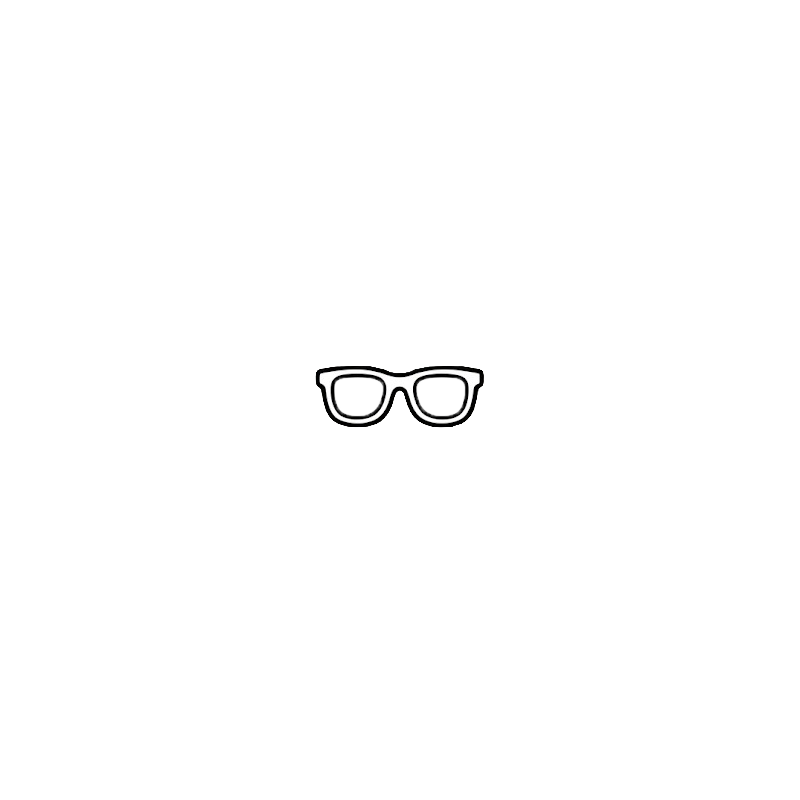
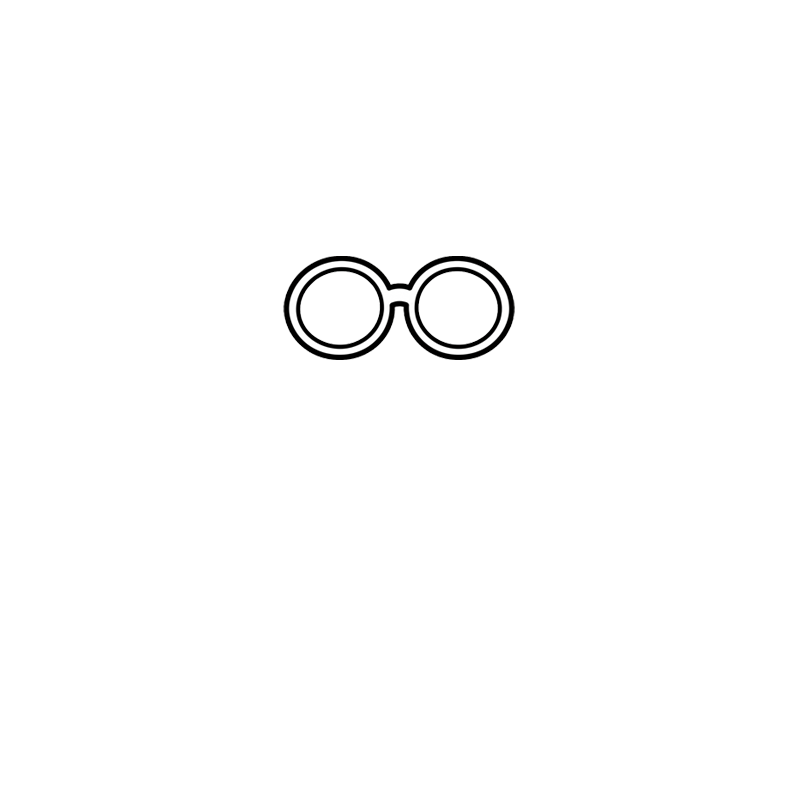
Cuerpos con ropa por etapa (bebé, niño, adulto) separados en capas para pintarlos, color de ropa según la cámara, anteojos nuevos y pelos con el lienzo entero

Changed region(s): [[0.3438, 0.3125, 0.6562, 0.5312]]

diff --git a/js/personaje.js b/js/personaje.js
@@ -33,22 +33,23 @@ var Personaje = (function () {
     brazoBebe: de800("brazo_bebe.png",  [369, 318, 70, 107]),
     ojos:   { src: "ojos1.png",      recorte: [163, 394, 2074, 963],  centro: [1020, 790],  ancho: 520 },
     cejas:  { src: "cejas1.png",     recorte: [183, 705, 2033, 321],  centro: [1020, 610],  ancho: 500 },
-    // pelos: todos vienen alineados con la cabeza (mismo lienzo de 800 que cara_base), relleno blanco y líneas negras
-    pelo3:   de800("pelo3.png",   [237, 133, 325, 200]),
-    pelo4:   de800("pelo4.png",   [227, 114, 342, 212]),
-    pelo5:   de800("pelo5.png",   [226, 102, 346, 224]),
-    pelo6:   de800("pelo6.png",   [212, 95, 370, 235]),
-    pelo7:   de800("pelo7.png",   [211, 90, 371, 246]),
-    pelo8:   de800("pelo8.png",   [196, 67, 387, 241]),
-    pelo9:   de800("pelo9.png",   [232, 105, 328, 231]),
-    pelo10:  de800("pelo10.png",  [229, 109, 339, 257]),
-    pelo11:  de800("pelo11.png",  [211, 117, 360, 255]),
+    // pelos: todos vienen alineados con la cabeza (mismo lienzo de 800 que cara_base), relleno blanco y líneas negras.
+    // Se usa el lienzo entero (no un recorte), así si se edita un pelo no hay que cambiar nada acá.
+    pelo3:   de800("pelo3.png",   [0, 0, 800, 800]),
+    pelo4:   de800("pelo4.png",   [0, 0, 800, 800]),
+    pelo5:   de800("pelo5.png",   [0, 0, 800, 800]),
+    pelo6:   de800("pelo6.png",   [0, 0, 800, 800]),
+    pelo7:   de800("pelo7.png",   [0, 0, 800, 800]),
+    pelo8:   de800("pelo8.png",   [0, 0, 800, 800]),
+    pelo9:   de800("pelo9.png",   [0, 0, 800, 800]),
+    pelo10:  de800("pelo10.png",  [0, 0, 800, 800]),
+    pelo11:  de800("pelo11.png",  [0, 0, 800, 800]),
     // pelos de mujer (pelo50 en adelante): mismo lienzo de 800, alineados con la cabeza
-    pelo50:  de800("pelo50.png",  [165, 127, 416, 273]),
-    pelo51:  de800("pelo51.png",  [204, 133, 386, 275]),
-    pelo52:  de800("pelo52.png",  [210, 135, 413, 278]),
-    pelo53:  de800("pelo53.png",  [132, 175, 533, 321]),
-    pelo54:  de800("pelo54.png",  [194, 129, 406, 269])
+    pelo50:  de800("pelo50.png",  [0, 0, 800, 800]),
+    pelo51:  de800("pelo51.png",  [0, 0, 800, 800]),
+    pelo52:  de800("pelo52.png",  [0, 0, 800, 800]),
+    pelo53:  de800("pelo53.png",  [0, 0, 800, 800]),
+    pelo54:  de800("pelo54.png",  [0, 0, 800, 800])
   };
   /* Ropa y accesorios: vienen centrados en su lienzo de 800 (no sobre el cuerpo). Cada uno dice dónde va su centro
      sobre el cuerpo (coordenadas del lienzo de 800 del cuerpo) y a qué escala. */
@@ -65,17 +66,41 @@ var Personaje = (function () {
     ["nino_buzo",     [277, 321, 246, 162], [404, 490], 1.0],
     ["adulto_camisa", [276, 323, 238, 156], [403, 488], 1.0],
     ["adulto_pantalon", [333, 311, 133, 173], [404, 562], 0.86],
-    ["adulto_traje",  [282, 326, 234, 152], [404, 490], 1.0],
-    ["anteojos",      [313, 364, 173, 66],  [400, 307], 0.98]
+    ["adulto_traje",  [282, 326, 234, 152], [404, 490], 1.0]
   ].forEach(function (a) { PIEZAS[a[0]] = prenda(a[0] + ".png", a[1], a[2], a[3]); });
+  // anteojos: vienen ubicados sobre los ojos; ESCALA_ANTEOJOS los achica o agranda sin moverlos del centro de los ojos
+  var ESCALA_ANTEOJOS = 0.85;
+  PIEZAS.anteojos = prenda("anteojos.png", [281, 254, 236, 108], [399, 308], ESCALA_ANTEOJOS);
 
   /* Etapas de la evolución: el mismo visitante (piel, pelo, ojos, boca), cambia el cuerpo, el tamaño y la ropa.
      ropa: [pieza, color] en el orden en que se dibuja (lo de abajo primero). */
+  /* Cuerpos de cada etapa: vienen con la cabeza, los brazos y la ropa en una sola imagen, con cada zona pintada de un
+     color de código. herramientas/separar_cuerpos.py los separa en capas (assets/carausuario/capas/): una por zona
+     (piel, ropa1, ropa2, detalle, acento), que acá se tiñen, y las líneas negras, que van encima.
+     cabeza = [x, y, escala]: dónde está el centro de la cabeza (lienzo de 800, a la altura más ancha) y cuánto más
+     grande es que la de cara_base; con eso se ubican los ojos, las cejas, el pelo y la boca (los 3 cuerpos no miden igual). */
+  var ZONAS = ["piel", "ropa1", "ropa2", "detalle", "acento"];
   var ETAPAS = {
-    bebe:   { cuerpo: "bebe", tamano: 0.62, ropa: [["bebe_enterito", "#9fd3f2"], ["bebe_babero", "#fff6c8"]] },
-    nino:   { cuerpo: "base", tamano: 0.82, brazos: false, ropa: [["nino_pantalon", "#5b7fc4"], ["nino_remera", "#ffd166"], ["nino_buzo", "#ef6f6c"]] },
-    adulto: { cuerpo: "base", tamano: 1, brazos: false,  ropa: [["adulto_pantalon", "#3c4252"], ["adulto_camisa", "#ffffff"], ["adulto_traje", "#4a5878"]] }
+    bebe:   { cuerpo: "cuerpo_bebe",   tamano: 0.62, cabeza: [398.5, 320, 1.064] },
+    nino:   { cuerpo: "cuerpo_nino",   tamano: 0.82, cabeza: [403, 317, 1.018] },
+    adulto: { cuerpo: "cuerpo_adulto", tamano: 1,    cabeza: [399.5, 316, 1.071] }
   };
+  var CABEZA_BASE = [398.5, 317];   // la de cara_base, sobre la que están ubicados los rasgos
+  Object.keys(ETAPAS).forEach(function (k) {
+    var c = ETAPAS[k].cuerpo;
+    ZONAS.concat("lineas").forEach(function (z) { PIEZAS[c + "_" + z] = de800("capas/" + c + "_" + z + ".png", [0, 0, 800, 800]); });
+  });
+  // colores para la ropa (cuando la cámara no ve la remera, o para las otras prendas)
+  var COLORES_ROPA = ["#ff8a80", "#ffd166", "#7bd389", "#6ec6ff", "#b39ddb", "#f48fb1", "#ffab40", "#4db6ac",
+                      "#5c6bc0", "#e57373", "#aed581", "#4fc3f7", "#ba68c8", "#90a4ae"];
+  // los colores de la ropa de un visitante: los que guardó la cámara, o unos fijos según su id (siempre los mismos)
+  function coloresRopa(rasgos) {
+    if (rasgos.ropa) return rasgos.ropa;
+    var s = Math.abs(rasgos.id || 7) % 9973;
+    function c(k) { return COLORES_ROPA[(s * (k + 3) + k * 5) % COLORES_ROPA.length]; }
+    return { ropa1: c(0), ropa2: c(1), detalle: c(2), acento: c(3) };
+  }
+
 
   // la caja del personaje dentro del cuerpo (lo que se ve), en coordenadas del cuerpo
   var CAJA = { x: 380, y: 160, w: 1300, h: 1760 };
@@ -108,7 +133,7 @@ var Personaje = (function () {
     pelo53: { largo: 0.8,  flequillo: 0.5, rulos: 0.5 }, // dos colitas
     pelo54: { largo: 1,    flequillo: 0.3, rulos: 1 }  // largo con rulos
   };
-  var ANTEOJOS = 0.35;       // desde cuánto borde sobre el puente de la nariz se toma como anteojos (calibrar con la cámara)    // la cámara ve la piel más oscura de lo que es
+  var ANTEOJOS = 0.35;       // desde cuánto borde sobre el puente de la nariz se toma como anteojos (calibrar con la cámara)
   var OJOS = [{ x: 881, y: 790 }, { x: 1159, y: 790 }], RADIO_OJO = 124;
   var BOCA = { centro: [1020, 975], ancho: 150 };
   /* Brazos del bebé: giran desde el hombro (coordenadas del cuerpo). pivote = el hombro dentro del recorte del png;
@@ -255,12 +280,29 @@ var Personaje = (function () {
     // orden: cabeza → brazos → cuerpo → cara (ojos, cejas, pelo, boca).
     // op.parte = "fondo" dibuja sólo la cabeza; "frente", todo lo que va arriba de los brazos (para moverlos aparte en el medio)
     var etapa = ETAPAS[rasgos.etapa];
-    var bebe = (etapa ? etapa.cuerpo : rasgos.cuerpo) === "bebe", piel = n >= 2 ? rasgos.piel : null;
+    if (etapa) { dibujarEtapa(ctx, rasgos, etapa, E, ox, oy, n); return; }
+    var bebe = rasgos.cuerpo === "bebe", piel = n >= 2 ? rasgos.piel : null;
     if (op.parte !== "frente" && !bebe && n >= 1) pieza(ctx, "cara", piel, E, ox, oy);
     if (op.parte === "fondo") return;
-    if (!op.parte && n >= 2 && op.brazos !== false && !(etapa && etapa.brazos === false)) brazosQuietos(ctx, rasgos, op);   // con mangas, los brazos quedan adentro de la ropa
+    if (!op.parte && n >= 2 && op.brazos !== false) brazosQuietos(ctx, rasgos, op);
     if (n >= 1) pieza(ctx, bebe ? "bebe" : "base", piel, E, ox, oy);
-    if (etapa && n >= 2) etapa.ropa.forEach(function (r) { pieza(ctx, r[0], r[1], E, ox, oy); });
+    rasgosCara(ctx, rasgos, E, ox, oy, n);
+  }
+  // un cuerpo de etapa (con la ropa puesta): cada zona de su color, las líneas encima y después la cara, ubicada en su cabeza
+  function dibujarEtapa(ctx, rasgos, etapa, E, ox, oy, n) {
+    var col = coloresRopa(rasgos), c = etapa.cuerpo;
+    if (n >= 1) ZONAS.forEach(function (z) { pieza(ctx, c + "_" + z, n >= 2 ? (z === "piel" ? rasgos.piel : col[z]) : "#ffffff", E, ox, oy); });
+    if (n >= 1) pieza(ctx, c + "_lineas", null, E, ox, oy);
+    // los rasgos están ubicados para la cabeza de cara_base: se llevan a la cabeza de este cuerpo
+    function px(x) { return ox + (1024 + (x - 400) * K800 - CAJA.x) * E; }
+    function py(y) { return oy + (800 + (y - 310) * K800 - CAJA.y) * E; }
+    var k = etapa.cabeza;
+    ctx.save();
+    ctx.translate(px(k[0]), py(k[1])); ctx.scale(k[2], k[2]); ctx.translate(-px(CABEZA_BASE[0]), -py(CABEZA_BASE[1]));
+    rasgosCara(ctx, rasgos, E, ox, oy, n);
+    ctx.restore();
+  }
+  function rasgosCara(ctx, rasgos, E, ox, oy, n) {
     // las cejas van debajo del pelo (el flequillo las tapa); los ojos, los anteojos y la boca, arriba de todo
     // (los pelos largos o con flequillo no pueden tapar la cara)
     if (n >= 4 && rasgos.cejas) pieza(ctx, "cejas", null, E, ox, oy);
@@ -294,6 +336,14 @@ var Personaje = (function () {
       return ("0" + Math.min(255, Math.round(255 * Math.pow(v / 255, 1 / f))).toString(16)).slice(-2);
     }).join("");
   }
+  // la ropa: la prenda principal del color de la remera que ve la cámara (si la ve); las demás, al azar de la paleta
+  function ropaParecida(muestras) {
+    var vistos = muestras.map(function (m) { return m.ropa; }).filter(function (c) { return typeof c === "string"; });
+    var azar = COLORES_ROPA.slice().sort(function () { return Math.random() - 0.5; });
+    var ropa1 = vistos.length ? masVotado(vistos.map(function (c) { return masParecido(aclarar(c, LUZ_PELO), COLORES_ROPA); })) : azar[0];
+    azar = azar.filter(function (c) { return c !== ropa1; });
+    return { ropa1: ropa1, ropa2: azar[0], detalle: azar[1], acento: azar[2] };
+  }
   // el peinado más parecido a lo que midió la cámara (promedio de las muestras)
   function peinadoParecido(muestras) {
     function prom(k) { var v = muestras.map(function (m) { return m[k]; }).filter(function (x) { return typeof x === "number"; });
@@ -326,7 +376,8 @@ var Personaje = (function () {
       cejas: true,
       anteojos: conAnteojos > muestras.length / 2,
       boca: sonrisas >= recientes.length / 2 ? "sonrisa" : "neutra",
-      apertura: 0.35 + t * 0.65
+      apertura: 0.35 + t * 0.65,
+      ropa: ropaParecida(muestras)
     };
   }
 

diff --git a/pruebas/cuerpos.html b/pruebas/cuerpos.html
@@ -1,0 +1,35 @@
+<!doctype html>
+<html lang="es"><head><meta charset="utf-8"><title>Prueba de cuerpos</title></head>
+<body style="margin:0;background:#eef0f3;font:bold 20px sans-serif;color:#333">
+<!-- Prueba de los cuerpos con ropa (bebé, niño, adulto) con distintos visitantes: piel, peinado, color de pelo y de ropa.
+     Cada fila es un visitante; cada columna, una etapa. Recargá la página para ver otros colores de ropa al azar. -->
+<canvas id="c" width="1920" height="1080"></canvas>
+<script src="../js/personaje.js"></script>
+<script>
+var visitantes = [
+  { piel: "#ffe3cf", pelo: "pelo52", colorPelo: "#e8c76a", boca: "sonrisa", anteojos: false },
+  { piel: "#a8704a", pelo: "pelo8",  colorPelo: "#2b1d14", boca: "neutra",  anteojos: true },
+  { piel: "#d9a074", pelo: "pelo50", colorPelo: "#b8452d", boca: "neutra",  anteojos: false },
+  { piel: "#f5c9a5", pelo: "pelo9",  colorPelo: "#6b4226", boca: "sonrisa", anteojos: true },
+  { piel: "#6e4630", pelo: "pelo54", colorPelo: "#2b1d14", boca: "neutra",  anteojos: false },
+  { piel: "#f5c9a5", pelo: "ninguno", colorPelo: "#2b1d14", boca: "neutra", anteojos: false }
+];
+var etapas = ["bebe", "nino", "adulto"];
+var colores = ["#ff8a80", "#ffd166", "#7bd389", "#6ec6ff", "#b39ddb", "#f48fb1", "#ffab40", "#4db6ac", "#5c6bc0", "#e57373"];
+function azar() { return colores[Math.floor(Math.random() * colores.length)]; }
+Personaje.cargar("../assets/carausuario/").then(function () {
+  var ctx = document.getElementById("c").getContext("2d");
+  // dos visitantes por fila de la pantalla: [bebé niño adulto]  [bebé niño adulto]
+  visitantes.forEach(function (v, i) {
+    var r = Object.assign({}, Personaje.PREDETERMINADO, v,
+      { ropa: { ropa1: azar(), ropa2: azar(), detalle: azar(), acento: azar() } });
+    var col = i % 2, fila = Math.floor(i / 2), x0 = col * 960, y0 = fila * 360;
+    etapas.forEach(function (e, k) {
+      var alto = 340 * Personaje.ETAPAS[e].tamano;
+      Personaje.dibujar(ctx, Object.assign({ etapa: e }, r),
+        { x: x0 + 40 + k * 300 + (300 - Personaje.ancho(alto)) / 2, y: y0 + 350 - alto, alto: alto });
+    });
+  });
+});
+</script>
+</body></html>

diff --git a/herramientas/separar_cuerpos.py b/herramientas/separar_cuerpos.py
@@ -1,0 +1,93 @@
+# =============================================================================
+# separar_cuerpos.py — separa los cuerpos con ropa (caraUsuario) en capas para poder pintarlas.
+#
+# Quien diseña entrega cada cuerpo en una sola imagen (cabeza + brazos + ropa), con cada zona pintada
+# de un color de código y las líneas en negro:
+#     blanco (o casi)      → piel
+#     amarillo             → ropa1  (prenda principal: remera, enterito, camisa)
+#     celeste              → ropa2  (pantalón / short)
+#     lila / azul          → detalle (cuello, puños, hebilla)
+#     rosa / rojo / naranja → acento (corbata, botones, cinto)
+# Este script genera, por cada cuerpo, una capa blanca por zona (para teñirla con cualquier color) y una capa
+# con las líneas negras, en assets/carausuario/capas/. La web (js/personaje.js) pinta cada zona y pone las
+# líneas encima. (No se puede hacer en la web: con file:// el navegador no deja leer los píxeles.)
+#
+# Uso (desde la carpeta del proyecto):   python herramientas/separar_cuerpos.py
+# Volvé a correrlo cada vez que cambie un cuerpo.
+# =============================================================================
+import colorsys
+import os
+
+import numpy as np
+from PIL import Image
+
+CARPETA = os.path.join(os.path.dirname(os.path.abspath(__file__)), '..', 'assets', 'carausuario')
+CUERPOS = ['cuerpo_bebe', 'cuerpo_nino', 'cuerpo_adulto']
+ZONAS = ['piel', 'ropa1', 'ropa2', 'detalle', 'acento']
+
+
+def zona_de_tono(h):
+    """Zona según el tono (0-360) de un color saturado."""
+    if 35 <= h < 75:
+        return 'ropa1'
+    if 150 <= h < 205:
+        return 'ropa2'
+    if 205 <= h < 330:
+        return 'detalle'
+    return 'acento'   # rojos, rosas, naranjas
+
+
+def separar(nombre):
+    im = np.array(Image.open(os.path.join(CARPETA, nombre + '.png')).convert('RGBA')).astype(float)
+    rgb, alfa = im[:, :, :3] / 255.0, im[:, :, 3] / 255.0
+    lum = rgb.mean(axis=2)
+    mx, mn = rgb.max(axis=2), rgb.min(axis=2)
+    sat = np.where(mx > 0, (mx - mn) / np.maximum(mx, 1e-6), 0)
+    alto, ancho = lum.shape
+
+    # 1) zona de cada píxel claro; los oscuros (líneas) toman la zona de sus vecinos
+    zona = np.full((alto, ancho), -1, dtype=int)
+    hsv = np.zeros((alto, ancho))
+    ys, xs = np.where((alfa > 0.05) & (lum > 0.45))
+    for y, x in zip(ys, xs):
+        if sat[y, x] < 0.12:
+            zona[y, x] = 0   # piel
+        else:
+            h = colorsys.rgb_to_hsv(*rgb[y, x])[0] * 360
+            zona[y, x] = ZONAS.index(zona_de_tono(h))
+    for _ in range(12):   # crecer las zonas por debajo de las líneas
+        faltan = (zona < 0) & (alfa > 0.05)
+        if not faltan.any():
+            break
+        for dy, dx in ((0, 1), (0, -1), (1, 0), (-1, 0)):
+            vecino = np.roll(np.roll(zona, dy, axis=0), dx, axis=1)
+            tomar = faltan & (vecino >= 0) & (zona < 0)
+            zona[tomar] = vecino[tomar]
+    zona[(zona < 0) & (alfa > 0.05)] = 0
+
+    # 2) brillo de referencia de cada zona (su color de código) para saber cuánto negro tiene cada píxel
+    referencia = {}
+    for i in range(len(ZONAS)):
+        sel = (zona == i) & (lum > 0.45)
+        referencia[i] = np.percentile(lum[sel], 90) if sel.any() else 1.0
+
+    salida = os.path.join(CARPETA, 'capas')
+    os.makedirs(salida, exist_ok=True)
+    blanco = np.full((alto, ancho, 3), 255, dtype=np.uint8)
+    for i, z in enumerate(ZONAS):
+        a = np.where(zona == i, alfa, 0)
+        capa = np.dstack([blanco, (a * 255).astype(np.uint8)])
+        Image.fromarray(capa, 'RGBA').save(os.path.join(salida, '%s_%s.png' % (nombre, z)))
+    # líneas: negro con la opacidad de lo que le falta al píxel para ser su color de código
+    ref = np.vectorize(lambda i: referencia.get(i, 1.0))(zona)
+    oscuro = np.clip((ref - lum) / np.maximum(ref, 1e-6), 0, 1) * alfa
+    oscuro[oscuro < 0.06] = 0
+    capa = np.dstack([np.zeros((alto, ancho, 3), dtype=np.uint8), (oscuro * 255).astype(np.uint8)])
+    Image.fromarray(capa, 'RGBA').save(os.path.join(salida, '%s_lineas.png' % nombre))
+    usadas = [z for i, z in enumerate(ZONAS) if (zona == i).any()]
+    print('%s: %s' % (nombre, ', '.join(usadas)))
+
+
+if __name__ == '__main__':
+    for c in CUERPOS:
+        separar(c)

diff --git a/sensado/cara.py b/sensado/cara.py
@@ -10,6 +10,7 @@
 #   largo     = cuánto pelo hay a los costados de la mandíbula y más abajo (0 corto … 1 largo, por los hombros)
 #   flequillo = si la frente está tapada por pelo (0 … 1)
 #   rulos     = textura del pelo arriba de la cabeza (más alto = más rulos / ondas); el umbral lo decide la web
+#   ropa      = color de la remera (debajo del mentón), o null si no se ve
 #   anteojos = cuánto borde hay sobre el puente de la nariz, entre los ojos (0 … 1): sin anteojos es piel lisa
 #              (valor bajo); el armazón deja una línea marcada (valor alto). El umbral lo decide la web.
 #   cara:nadie            (cuando la persona se va)
@@ -209,12 +210,16 @@ class DetectorCara(object):
         del self.puentes[:-12]
         anteojos = sorted(self.puentes)[len(self.puentes) // 2]
 
+        # ropa: el color de la remera, un poco más abajo del mentón (si está dentro de la imagen)
+        ropa = _muestra(frame, cx, my + alto_cara * 0.55, r * 1.5)
+
         x = sum(p.x for p in lm) / len(lm)
         if config.INVERTIR_X:
             x = 1 - x
         self.rasgos = {'piel': _hex(piel), 'pelo': _hex(pelo), 'pelado': pelado,
                        'sonrisa': round(sonrisa, 2), 'ojos': round(ojos, 3), 'anteojos': round(anteojos, 3), 'x': round(x, 3),
                        'largo': round(largo, 2), 'flequillo': round(flequillo, 2), 'rulos': round(rulos, 3),
+                       'ropa': _hex(ropa) if ropa else None,
                        'muestra_pelo': (fx, y_pelo), 'r': r}
         datos = {k: v for k, v in self.rasgos.items() if k not in ('muestra_pelo', 'r')}
         return 'cara:' + json.dumps(datos)
